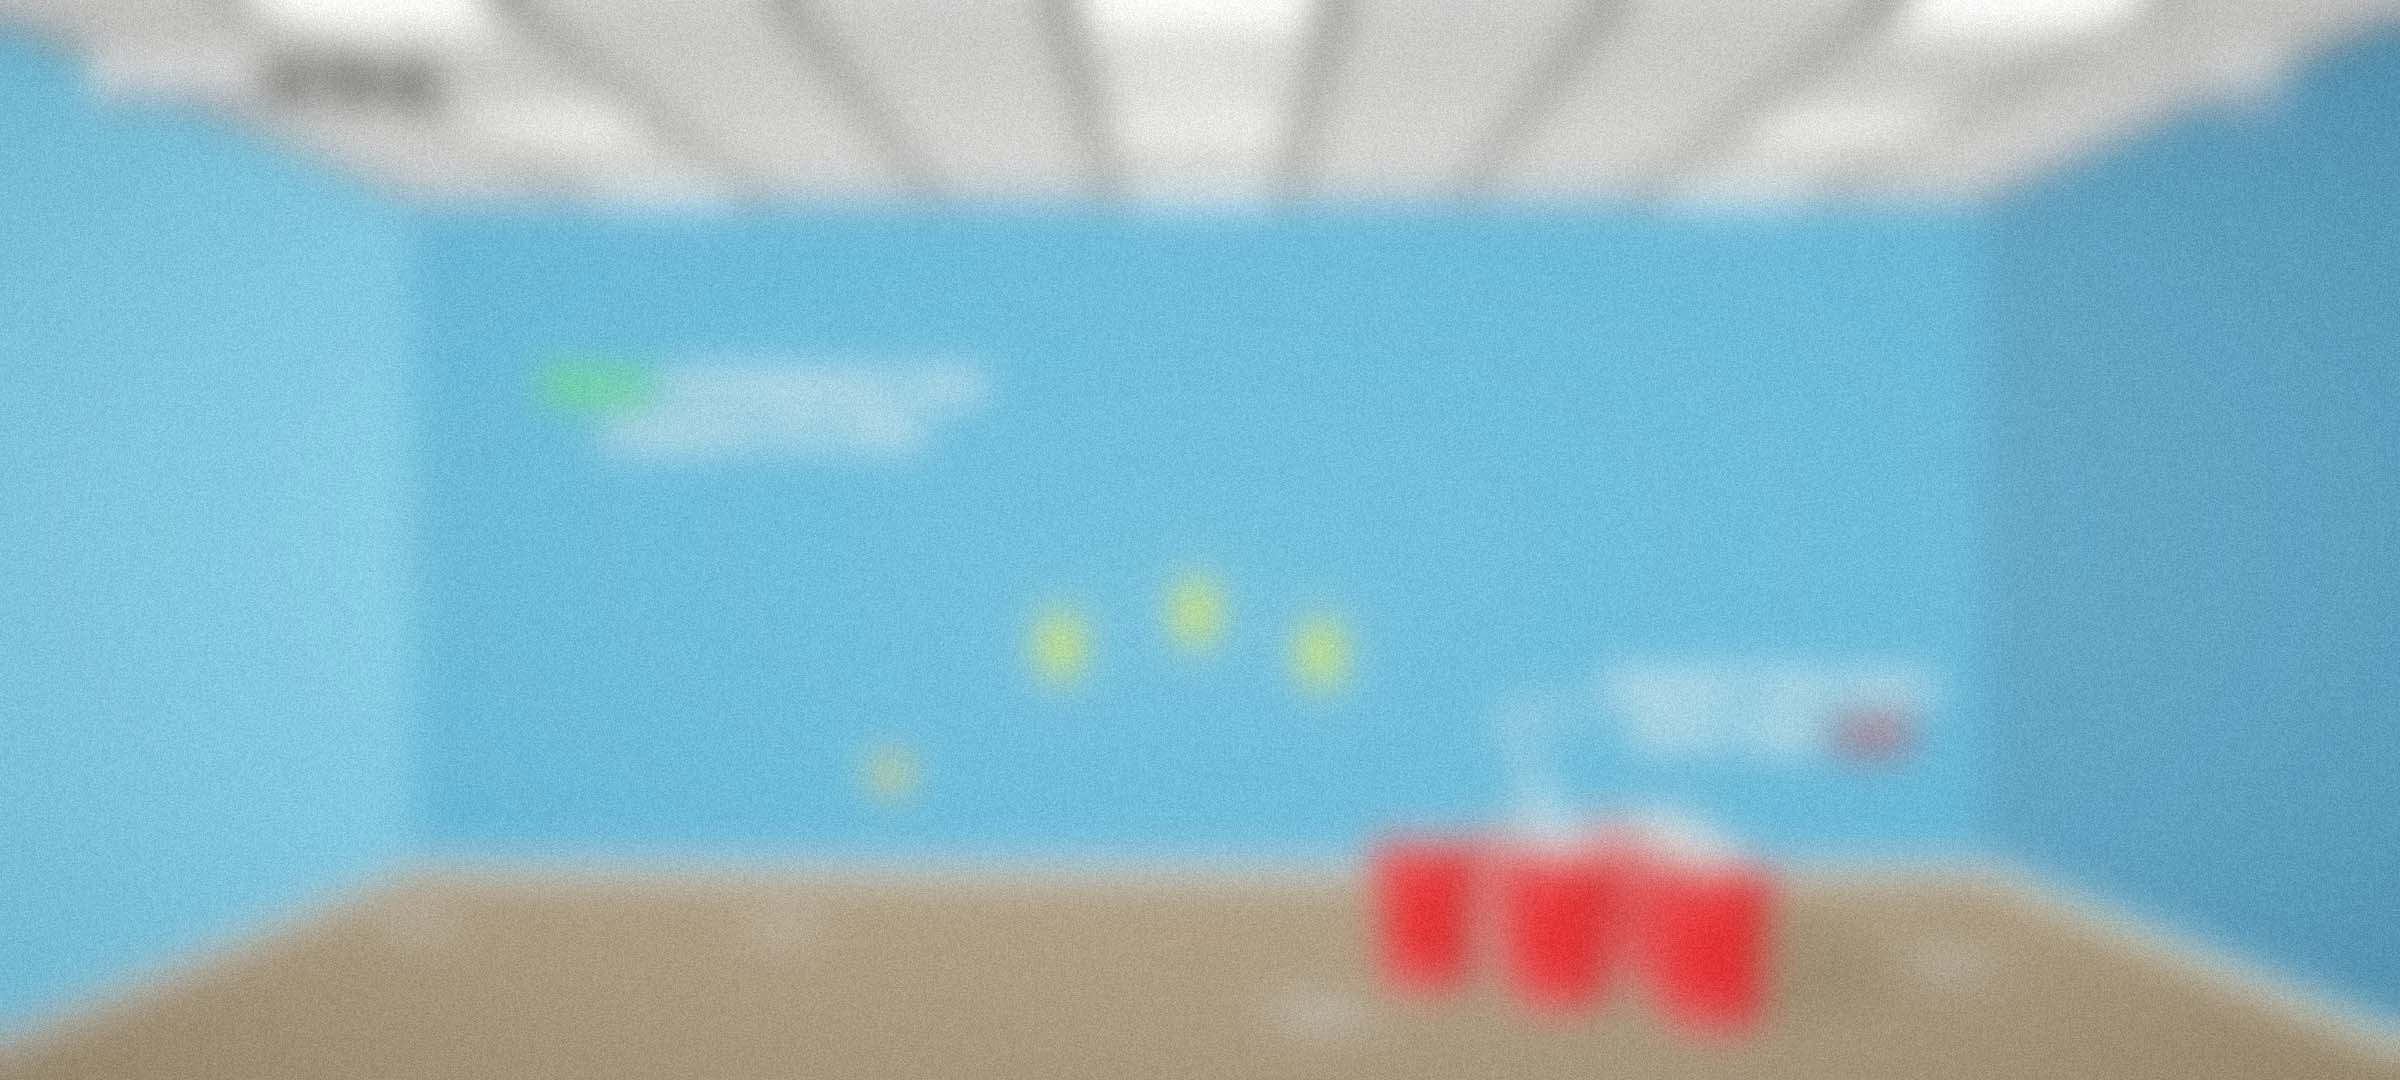
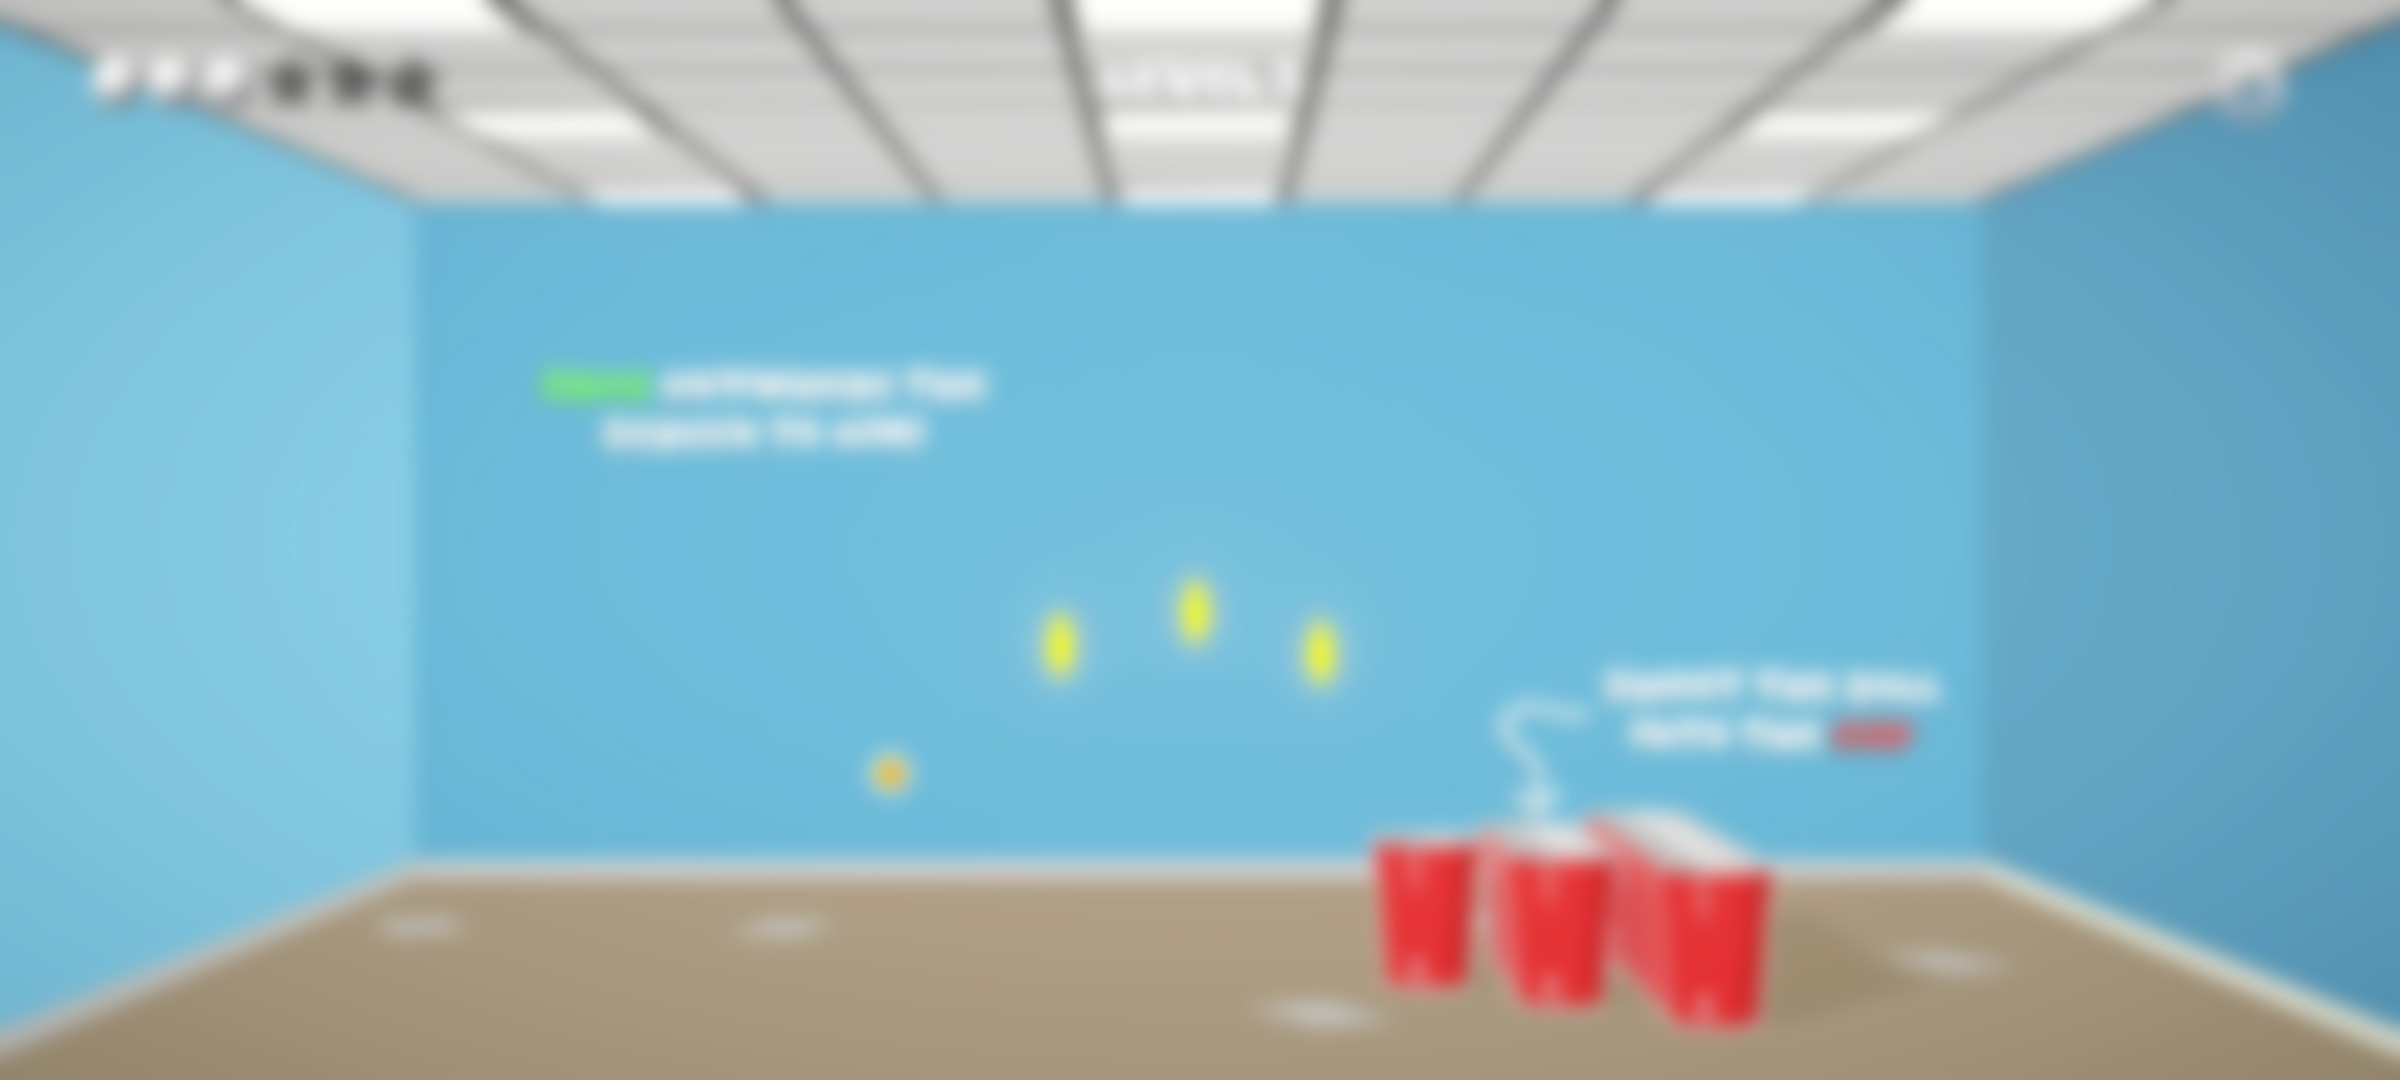
- added noise effect

diff --git a/assets/css/style.css b/assets/css/style.css
@@ -331,6 +331,31 @@ body.noscroll{
     background-color: #272727;
 }
 
+.grain-overlay {
+    content: "";
+    position: fixed;
+    width: 200vw;
+    height: 200vh;
+    left: -50%;
+    top: -50%;
+    z-index: 2000 !important;
+    pointer-events: none;
+    opacity: 0.3; 
+    background-image: url('/assets/img/noise.png');
+    
+    animation: grain 1s steps(10, jump-none) infinite;
+}
+
+@keyframes grain{
+    0%, 100% { transform:  translate(0,0);}
+    10% { transform: translate(-20%, 0%); }
+    30% { transform: translate(0%, 15%); }
+    50% { transform: translate(-18%, 0%); }
+    70% { transform: translate(0%, 9%); }
+    90% { transform: translate(-10%, 0%); }
+}
+
+
 .spacer{
     background-color: white;
     color: black;

diff --git a/assets/js/script.js b/assets/js/script.js
@@ -1340,6 +1340,8 @@ function Awake(){
 
     document.body.insertBefore(credits, document.body.firstChild);
 
+
+
     images.forEach(image => {
         image.addEventListener('contextmenu', disableContextMenu);
     });
@@ -1469,5 +1471,10 @@ function Awake(){
         });
         
     }
+
+     
+    const grainEffect = document.createElement('div');
+    grainEffect.className = 'grain-overlay';
+    document.body.insertBefore(grainEffect, document.body.firstChild);
     
 }
